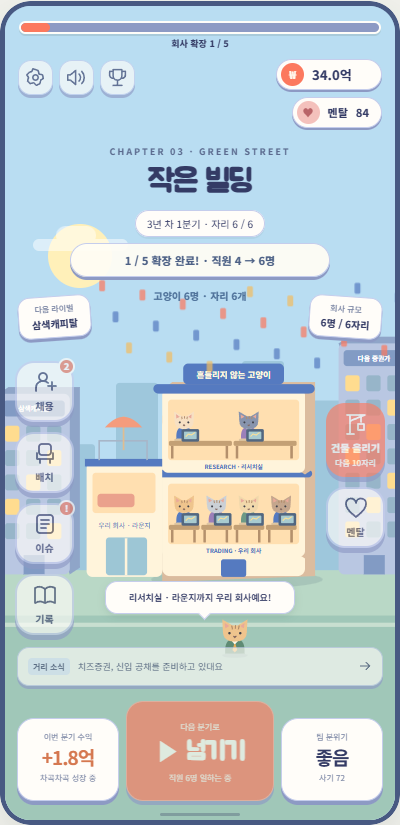
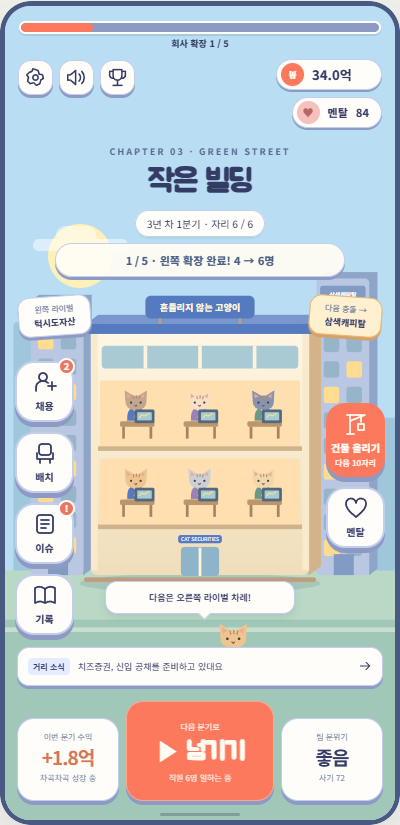
디자인: 좌우 교대 충돌과 일체형 사옥 성장으로 연출 개선

diff --git a/docs/mockups/2026-11-08-toy-city-five-expansions/index.html b/docs/mockups/2026-11-08-toy-city-five-expansions/index.html
@@ -51,73 +51,82 @@
 .phone .phase-label{opacity:1}.phone .seat-popup{opacity:1}.phone .impact{display:none}.phone.cinematic .impact{display:block;animation:hit-label .8s both}
 .rival-label{top:290px!important;left:13px!important;right:auto!important;font-size:10px}.rival-label.right{left:auto!important;right:13px!important;top:290px!important}
 .demo-controls{flex-wrap:wrap}.demo-controls button:disabled{opacity:.45}.demo-controls .autoplay{background:#557ac0;color:white;border-color:#557ac0}.description{text-align:center}.speech{left:100px;right:100px;font-size:9px}.journey{font-size:12px;text-align:center;color:var(--muted-foreground,#718071);line-height:1.8}.footer{max-width:700px;text-align:center}
-</style></head><body>
+
+/* Each plot is absorbed into a single, continuous building envelope. */
+.station{transition:transform .85s cubic-bezier(.2,.8,.3,1),opacity .25s}
+.employee{opacity:0;transform:translate(25px,25px)}.employee.arrived{opacity:1;transform:none}
+.opponent.evicted{opacity:0;transform:translateX(var(--push)) rotate(10deg)}
+.company-hit{animation:alternating-impact .65s both}
+@keyframes alternating-impact{0%{transform:none}25%{transform:translateX(calc(var(--hit) * -.4))}48%{transform:translateX(var(--hit))}70%{transform:translateX(calc(var(--hit) * -.15))}100%{transform:none}}
+.puff{animation:dust-puff 1s both}@keyframes dust-puff{0%{opacity:0}20%,60%{opacity:1}100%{opacity:0}}
+.claimed-lot{transition:opacity .5s}.rival-label.target{background:#fff0d0;border-color:#eab773;box-shadow:0 3px 0 #d3a36b}
+.phase-label{left:50px;right:50px}.rival-label{max-width:105px;font-size:9px}.phone[data-direction=right] .impact{left:220px;right:20px}.phone[data-direction=left] .impact{left:20px;right:220px}
+.phone .seat-popup{display:none}</style></head><body>
 <svg width="0" height="0" style="position:absolute" aria-hidden="true"><defs>
 <symbol id="hire" viewBox="0 0 24 24"><circle cx="10" cy="7" r="4"/><path d="M3 21v-3a7 7 0 0 1 12-5m4-1v8m-4-4h8"/></symbol><symbol id="chair" viewBox="0 0 24 24"><rect x="6" y="3" width="12" height="11" rx="3"/><path d="M4 12v6h16v-6M7 18v4m10-4v4"/></symbol><symbol id="news" viewBox="0 0 24 24"><rect x="4" y="3" width="16" height="18" rx="3"/><path d="M8 8h8m-8 4h8m-8 4h5"/></symbol><symbol id="book" viewBox="0 0 24 24"><path d="M12 6Q7 2 2 5v15q5-3 10 0 5-3 10 0V5q-5-3-10 1v14"/></symbol><symbol id="build" viewBox="0 0 24 24"><path d="M6 22V3m-3 0h18L6 9m11-6v7m-3 2h6v6h-6zM3 22h7"/></symbol><symbol id="heart" viewBox="0 0 24 24"><path d="M12 21S2 14 2 8a5 5 0 0 1 10-1 5 5 0 0 1 10 1c0 6-10 13-10 13Z"/></symbol><symbol id="gear" viewBox="0 0 24 24"><path d="m9 2-1 3-3 1-3 3 2 3-1 4 3 3 4-1 3 3 4-2 1-4 3-2-1-4-4-1-1-4Z"/><circle cx="12" cy="12" r="3"/></symbol><symbol id="sound" viewBox="0 0 24 24"><path d="m11 4-6 5H2v6h3l6 5Zm4 4a6 6 0 0 1 0 8m3-11a10 10 0 0 1 0 14"/></symbol><symbol id="cup" viewBox="0 0 24 24"><path d="M7 3h10v7a5 5 0 0 1-10 0Zm0 2H3v4q0 4 5 4m9-8h4v4q0 4-5 4m-4 2v6m-5 0h10"/></symbol><symbol id="arrow" viewBox="0 0 24 24"><path d="M4 12h16m-6-6 6 6-6 6"/></symbol>
 <symbol id="cat" viewBox="0 0 60 70"><ellipse cx="30" cy="65" rx="21" ry="4" fill="#24334b25"/><path d="M14 62q-2-25 16-25t16 25" fill="var(--coat,#5f8b74)"/><path d="m23 39 7 8 7-8" fill="#fff9e9"/><path d="m29 46-3 10 4 4 4-4-3-10" fill="#e9af5b"/><path d="M10 24 9 5l17 10h9L51 5l-1 21q0 16-20 16T10 24" fill="var(--fur,#efc48d)"/><path d="m13 11 8 5-7 4m32-9-7 5 6 4" fill="#eaa99a"/><path d="m25 16 1 5m5-6v5m6-4-1 5" stroke="#b18b69" stroke-width="2" stroke-linecap="round"/><circle cx="21" cy="28" r="2" fill="#40424b"/><circle cx="39" cy="28" r="2" fill="#40424b"/><path d="m28 33 2 2 2-2" fill="none" stroke="#80645c" stroke-width="2" stroke-linecap="round"/></symbol>
 </defs></svg>
-<header><div class="eyebrow">TOY CITY · EXPANSION STUDY 03</div><h1>다섯 번의 확장, 하나의 고양이 회사.</h1><p><b>5회 자동 재생</b>으로 작은 사무실이 22명의 회사가 되는 과정을 보세요.<br>하나씩 확장하거나, 중간에 멈췄다가 이어서 볼 수도 있어요.</p><div class="selector" role="group" aria-label="시안 선택"><button data-view="all" aria-pressed="true">나란히 비교</button><button data-view="sunny" aria-pressed="false">01 햇살 타이쿤</button><button data-view="night" aria-pressed="false">02 네온 증권가</button><button data-view="toy" aria-pressed="false">03 토이 시티</button></div></header>
+<header><div class="eyebrow">TOY CITY · EXPANSION STUDY 03</div><h1>왼쪽, 오른쪽. 우리 사옥이 자랍니다.</h1><p><b>5회 자동 재생</b>으로 작은 사무실이 22명의 회사가 되는 과정을 보세요.<br>하나씩 확장하거나, 중간에 멈췄다가 이어서 볼 수도 있어요.</p><div class="selector" role="group" aria-label="시안 선택"><button data-view="all" aria-pressed="true">나란히 비교</button><button data-view="sunny" aria-pressed="false">01 햇살 타이쿤</button><button data-view="night" aria-pressed="false">02 네온 증권가</button><button data-view="toy" aria-pressed="false">03 토이 시티</button></div></header>
 <main class="gallery" id="gallery"></main><p class="footer">인터랙티브 시안 · 수치와 이벤트는 디자인 체험용입니다. 실제 게임에는 아직 적용하지 않았습니다.</p>
 <script>
 const c={id:'toy',title:'토이 시티'};
 const icon=name=>`<svg class="icon" aria-hidden="true"><use href="#${name}"/></svg>`;
 const stages=[
  {name:'상가 3층',staff:4,price:21.3,scale:1,cx:195,add:'작은 사무실',rival:'치즈증권'},
- {name:'작은 빌딩',staff:6,price:34,scale:.84,cx:150,add:'리서치실 · 라운지',rival:'삼색캐피탈'},
- {name:'투자 전문 사옥',staff:10,price:210,scale:.72,cx:150,add:'본관 투자팀',rival:'턱시도자산'},
- {name:'두 동의 캠퍼스',staff:14,price:500,scale:.60,cx:230,add:'동쪽 별관',rival:'페르시안금융'},
- {name:'그린 스트리트 본사',staff:18,price:1200,scale:.56,cx:230,add:'동관 전략팀',rival:'골든캣홀딩스'},
- {name:'고양이 금융 캠퍼스',staff:22,price:3000,scale:.50,cx:195,add:'서쪽 별관',rival:'거리 정복 완료'}
+ {name:'작은 빌딩',staff:6,price:34,scale:.84,cx:150,add:'서쪽 부지 · 2층 사옥',rival:'삼색캐피탈'},
+ {name:'투자 전문 사옥',staff:10,price:210,scale:.72,cx:150,add:'동쪽 부지 · 투자팀',rival:'턱시도자산'},
+ {name:'중형 증권 사옥',staff:14,price:500,scale:.60,cx:230,add:'서쪽 부지 · 3층 사옥',rival:'페르시안금융'},
+ {name:'그린 스트리트 본사',staff:18,price:1200,scale:.56,cx:230,add:'동쪽 부지 · 전략팀',rival:'골든캣홀딩스'},
+ {name:'고양이 금융 본사',staff:22,price:3000,scale:.50,cx:195,add:'서쪽 부지 · 4층 본사',rival:'거리 정복 완료'}
 ];
 const names=['모카','구름','치즈','호두','라떼','후추','두부','밤이','나비','콩이','루나','보리','쿠키','토리','레오','솜이','밀크','버터','망고','오레오','로이','별이'];
 const colors=['#efc48d','#cbd0d6','#f1d8ab','#c4a68d','#f7e0c3','#8894ad'];
-function workspace(x,y,w,count,start,level,label){
- const step=(w-16)/count;
- return `<g class="module ${level===0?'built':''}" data-level="${level}">
- <path d="M${x} ${y}l12-9h${w}v102l-12 8" fill="#dbbc9f"/>
- <rect x="${x}" y="${y}" width="${w}" height="99" rx="7" fill="#fff4db"/>
- <rect x="${x+7}" y="${y+12}" width="${w-14}" height="72" rx="4" fill="#ffdfb0"/>
- <path d="M${x-4} ${y}h${w+8}" stroke="#557ac0" stroke-width="9" stroke-linecap="round"/>
- ${Array.from({length:count},(_,i)=>{const px=x+8+i*step;return `<g class="employee ${level===0?'arrived':''}" data-person="${start+i}"><use href="#cat" x="${px+1}" y="${y+23}" width="34" height="40" style="--fur:${colors[(start+i)%colors.length]};--coat:${['#557ac0','#9b80b9','#6c9986'][i%3]}"/></g><g class="workdesk ${level===0?'placed':''}"><rect x="${px}" y="${y+61}" width="${step-2}" height="6" rx="2" fill="#c3a075"/><path d="M${px+4} ${y+67}v15m${step-12}-15v15" stroke="#b4906c" stroke-width="3"/><rect x="${px+15}" y="${y+47}" width="21" height="15" rx="2" fill="#526780"/><rect x="${px+18}" y="${y+50}" width="15" height="9" rx="1" fill="#a8cbd0"/><path d="m${px+20} ${y+56} 3-3 4 1 4-3" stroke="#f9df98" stroke-width="1.3" fill="none"/></g>`}).join('')}
- <text x="${x+w/2}" y="${y+94}" text-anchor="middle" font-size="7" fill="#557ac0" font-weight="800">${label}</text></g>`;
+const geometry=[
+ {x:105,w:170,rows:1,scale:1},
+ {x:35,w:240,rows:2,scale:.91},
+ {x:35,w:310,rows:2,scale:.80},
+ {x:-35,w:380,rows:3,scale:.68},
+ {x:-35,w:450,rows:3,scale:.59},
+ {x:-105,w:520,rows:4,scale:.51}
+].map(g=>({...g,h:g.rows*86+104}));
+const rivals=['치즈증권','삼색캐피탈','턱시도자산','페르시안금융','골든캣홀딩스','노르웨이펀드','러시안블루증권'];
+const direction=n=>n%2===1?'left':'right';
+const sideName=s=>s==='left'?'왼쪽':'오른쪽';
+function slots(n){const g=geometry[n],count=stages[n].staff,result=[],perRow=Math.ceil(count/g.rows);for(let i=0;i<count;i++){const row=Math.floor(i/perRow),column=i%perRow,total=Math.min(perRow,count-row*perRow);result.push({x:g.x+15+(g.w-30)/total*(column+.5)-18,y:560-64-row*86-56});}return result;}
+function station(i){return `<g class="station" data-person="${i}" style="opacity:0"><g class="employee"><use href="#cat" width="35" height="41" style="--fur:${colors[i%colors.length]};--coat:${['#557ac0','#9b80b9','#6c9986'][i%3]}"/></g><g class="workdesk"><rect x="0" y="37" width="38" height="6" rx="2" fill="#ba956d"/><path d="M4 43v13m30-13v13" stroke="#a58364" stroke-width="3"/><rect x="16" y="24" width="22" height="15" rx="2" fill="#526780"/><rect x="19" y="27" width="16" height="9" rx="1" fill="#a8cbd0"/><path d="m21 33 3-3 4 1 4-3" stroke="#f9df98" fill="none" stroke-width="1.3"/></g></g>`;}
+function opponent(name,x,height,side){const width=58;return `<g class="opponent" data-side="${side}" style="--push:${side==='left'?-150:150}px;transform-origin:${x+29}px 560px"><path d="M${x} ${560-height}l9-7h${width}v${height}l-9 7" fill="#8fa5c8"/><rect x="${x}" y="${560-height}" width="${width}" height="${height}" rx="5" fill="#b9c7e2"/><rect x="${x+4}" y="${568-height}" width="50" height="18" rx="3" fill="#829bc4"/><text x="${x+29}" y="${580-height}" text-anchor="middle" font-size="6.5" fill="#fff" font-weight="700">${name}</text>${Array.from({length:Math.floor((height-44)/28)},(_,r)=>[0,1].map(c=>`<rect x="${x+8+c*25}" y="${595-height+r*28}" width="17" height="18" rx="3" fill="${(r+c)%3?'#97b5c9':'#ffdc8f'}"/>`).join('')).join('')}<rect x="${x+19}" y="537" width="22" height="23" fill="#829bc4"/></g>`;}
+function renderScene(){return `<svg class="scene" viewBox="0 0 390 814" role="img" aria-label="좌우 라이벌 부지를 번갈아 차지하며 하나의 사옥으로 성장하는 회사"><defs><linearGradient id="wall" x2="0" y2="1"><stop stop-color="#fff7e5"/><stop offset="1" stop-color="#f0ddba"/></linearGradient></defs><rect width="390" height="814" fill="#b9ddf2"/><circle cx="75" cy="250" r="32" fill="#fff0b9"/><g fill="#fff" opacity=".5"><rect x="28" y="233" width="95" height="12" rx="6"/><rect x="51" y="220" width="40" height="19" rx="10"/></g><g class="camera"><g fill="#9ec7dc">${Array.from({length:17},(_,i)=>`<rect x="${-500+i*75}" y="${260+(i*47)%130}" width="50" height="330" rx="4"/>`).join('')}</g><path d="M-700 555h1800v500H-700" fill="#b9d8c6"/><path d="M-700 609h1800v446H-700" fill="#a0c7b8"/><path d="M-700 620h1800" stroke="#c8dfd0" stroke-width="5"/><g class="opponents"></g><rect class="claimed-lot" y="550" height="22" rx="5" fill="#f8d98b" opacity="0"/><g class="company"><g class="envelope"></g><g class="stations">${Array.from({length:22},(_,i)=>station(i)).join('')}</g><g class="roof"></g></g><g class="dust" opacity="0"><ellipse cx="0" cy="556" rx="27" ry="12" fill="#ffedc9"/><ellipse cx="-20" cy="552" rx="18" ry="13" fill="#f4ddb5"/><ellipse cx="20" cy="548" rx="19" ry="16" fill="#fff1d5"/></g><use href="#cat" x="169" y="610" width="45" height="50"/><g class="confetti">${Array.from({length:25},(_,i)=>`<rect x="${30+i*16}" y="${230+(i*37)%100}" width="7" height="13" rx="2" fill="${['#fc795e','#557ac0','#f2bc61'][i%3]}"/>`).join('')}</g></g></svg>`;}
+let frame=0;
+function drawEnvelope(g){const {x,w,h}=g,top=560-h,cx=x+w/2;let floors='';const visibleRows=Math.max(1,Math.floor((h-104)/86+.02));for(let row=0;row<visibleRows;row++){const y=560-64-row*86-64;floors+=`<rect x="${x+10}" y="${y}" width="${w-20}" height="73" rx="3" fill="#ffdfb0"/><path d="M${x+8} ${y+75}h${w-16}" stroke="#cdb28b" stroke-width="5"/>`;}
+ q('.envelope').innerHTML=`<ellipse cx="${cx}" cy="569" rx="${w/2+12}" ry="11" fill="#34486122"/><path d="M${x} ${top}l13-10h${w}v${h}l-13 10" fill="#d4b38a"/><rect x="${x}" y="${top}" width="${w}" height="${h}" rx="7" fill="url(#wall)"/><rect x="${x+12}" y="${top+24}" width="${w-24}" height="25" rx="4" fill="#a9c9d3"/>${[1,2,3].map(i=>`<path d="M${x+w*i/4} ${top+24}v25" stroke="#fff4db" stroke-width="4"/>`).join('')}${floors}<path d="M${x+4} ${top+10}v${h-15}m${w-8}-${h-15}v${h-15}" stroke="#f9eacc" stroke-width="7"/><rect x="${cx-21}" y="529" width="42" height="32" rx="4" fill="#8eb4ca"/><path d="M${cx} 530v31" stroke="#fff4db" stroke-width="3"/><rect x="${cx-24}" y="516" width="48" height="9" rx="3" fill="#557ac0"/><text x="${cx}" y="523" font-size="5.5" text-anchor="middle" fill="#fff">CAT SECURITIES</text><path d="M${x-5} 565h${w+10}" stroke="#bd9f7d" stroke-width="5" stroke-linecap="round"/>`;
+ q('.roof').innerHTML=`<path d="M${x-5} ${top}l13-10h${w+7}l-13 10" fill="#7797ce"/><rect x="${x-5}" y="${top}" width="${w+11}" height="11" rx="3" fill="#557ac0"/><rect x="${cx-60}" y="${top-31}" width="120" height="25" rx="6" fill="#557ac0"/><text x="${cx}" y="${top-14}" text-anchor="middle" font-size="10" font-weight="800" fill="#fff9df">흔들리지 않는 고양이</text><path d="M${cx-44} ${top-6}v6m88-6v6" stroke="#bd9f7d" stroke-width="3"/>`;
 }
-function opponent(name,x=-80,height=190){return `<g class="opponent"><path d="M${x} ${560-height}l12-8h85v${height}l-12 8" fill="#8fa5c8"/><rect x="${x}" y="${560-height}" width="85" height="${height}" rx="7" fill="#b9c7e2"/><rect x="${x+6}" y="${568-height}" width="73" height="19" rx="4" fill="#829bc4"/><text x="${x+42}" y="${581-height}" text-anchor="middle" font-size="8" fill="#fff" font-weight="700">${name}</text>${Array.from({length:Math.floor((height-45)/29)},(_,r)=>[0,1,2].map(c=>`<rect x="${x+8+c*25}" y="${598-height+r*29}" width="17" height="19" rx="3" fill="${(r+c)%3?'#97b5c9':'#ffdc8f'}"/>`).join('')).join('')}<rect x="${x+30}" y="537" width="25" height="23" fill="#829bc4"/></g>`}
-function renderScene(){return `<svg class="scene" viewBox="0 0 390 814" role="img" aria-label="다섯 차례에 걸쳐 성장하는 고양이 회사"><rect width="390" height="814" fill="#b9ddf2"/><circle cx="75" cy="250" r="32" fill="#fff0b9"/><g fill="#fff" opacity=".5"><rect x="28" y="233" width="95" height="12" rx="6"/><rect x="51" y="220" width="40" height="19" rx="10"/></g><g class="camera"><g fill="#9ec7dc">${Array.from({length:15},(_,i)=>`<rect x="${-400+i*75}" y="${290+(i*47)%120}" width="50" height="280" rx="4"/>`).join('')}</g><path d="M-700 555h1800v500H-700" fill="#b9d8c6"/><path d="M-700 609h1800v446H-700" fill="#a0c7b8"/><path d="M-700 620h1800" stroke="#c8dfd0" stroke-width="5"/><g class="opponents">${opponent('치즈증권',-7)}${opponent('삼색캐피탈',310,260)}</g><g class="company">
- <ellipse cx="194" cy="566" rx="102" ry="11" fill="#34486122"/>
- <g class="base"><path d="m105 371 170-9 12 10v190l-182 7" fill="#dbbc9f"/><rect x="105" y="374" width="170" height="188" rx="9" fill="#fff4db"/><rect x="114" y="390" width="152" height="46" rx="5" fill="#9dc6d5"/><path d="M164 390v46m50-46v46" stroke="#fff4db" stroke-width="5"/><rect x="175" y="542" width="30" height="21" rx="3" fill="#557ac0"/></g>
- ${workspace(105,440,170,4,0,0,'TRADING · 우리 회사')}
- <g class="module" data-level="1"><rect x="15" y="427" width="90" height="136" rx="7" fill="#fff4db"/><rect x="22" y="439" width="75" height="48" rx="4" fill="#ffdfb0"/><rect x="28" y="464" width="44" height="16" rx="4" fill="#eaa18c"/><rect x="38" y="516" width="49" height="45" rx="4" fill="#9dc6d5"/><path d="M62 517v44" stroke="#fff4db" stroke-width="3"/><path d="M13 427h94" stroke="#557ac0" stroke-width="9"/><text x="60" y="505" text-anchor="middle" font-size="8" fill="#557ac0">우리 회사 · 라운지</text><path d="M30 424v-23h57v23" stroke="#a7b6c8" stroke-width="2" fill="none"/><path d="M59 412v-40" stroke="#dfbd91" stroke-width="2"/><path d="M37 385q22-25 44 0Z" fill="#f49c7d"/></g>
- ${workspace(105,340,170,2,4,1,'RESEARCH · 리서치실')}
- ${workspace(105,240,170,4,6,2,'INVESTMENT · 투자팀')}
- <g class="module" data-level="3"><rect x="276" y="530" width="169" height="33" fill="#fff4db"/><rect x="325" y="540" width="40" height="23" fill="#9dc6d5"/><path d="M274 564h175" stroke="#dbbc9f" stroke-width="4"/></g>
- ${workspace(275,430,170,4,10,3,'EAST WING · 동쪽 별관')}
- ${workspace(275,330,170,4,14,4,'STRATEGY · 전략팀')}
- <g class="module" data-level="5"><rect x="-65" y="440" width="80" height="123" rx="5" fill="#fff4db"/><rect x="-55" y="460" width="58" height="44" rx="4" fill="#9dc6d5"/><rect x="-39" y="529" width="28" height="34" fill="#557ac0"/></g>
- ${workspace(-65,340,170,4,18,5,'WEST WING · 글로벌팀')}
- <g class="roof" style="transition:transform .7s"><path d="M100 373h181" stroke="#557ac0" stroke-width="11" stroke-linecap="round"/><rect x="130" y="343" width="120" height="25" rx="6" fill="#557ac0"/><text x="190" y="360" text-anchor="middle" font-size="10" font-weight="800" fill="#fff9df">흔들리지 않는 고양이</text></g>
- </g><use href="#cat" x="169" y="610" width="45" height="50"/><g class="confetti">${Array.from({length:25},(_,i)=>`<rect x="${30+i*16}" y="${230+(i*37)%100}" width="7" height="13" rx="2" fill="${['#fc795e','#557ac0','#f2bc61'][i%3]}"/>`).join('')}</g></g></svg>`}
+function morph(a,b){cancelAnimationFrame(frame);if(reduced()){drawEnvelope(b);return;}const token=epoch,start=performance.now();function tick(now){if(token!==epoch)return;const t=Math.min(1,(now-start)/850),ease=1-Math.pow(1-t,3);drawEnvelope({x:a.x+(b.x-a.x)*ease,w:a.w+(b.w-a.w)*ease,h:a.h+(b.h-a.h)*ease});if(t<1)frame=requestAnimationFrame(tick);}frame=requestAnimationFrame(tick);}
+function placeStaff(n,before){slots(n).forEach((p,i)=>{const node=q(`.station[data-person="${i}"]`);node.style.transform=`translate(${p.x}px,${p.y}px)`;if(i<before){node.style.opacity='1';node.querySelector('.employee').classList.add('arrived');node.querySelector('.workdesk').classList.add('placed');}});}
+function view(n,pan=0){const g=geometry[n];q('.camera').style.transform=`translate(${195-(g.x+g.w/2)*g.scale+pan}px,${560-550*g.scale}px) scale(${g.scale})`;}
+function opponentIndex(n,side){return side==='left'?2*Math.ceil(n/2):1+2*Math.floor(n/2);}
+function opponents(n){const g=geometry[n];q('.opponents').innerHTML=opponent(rivals[opponentIndex(n,'left')]||'다음 증권가',g.x-66,Math.min(350,g.h+25),'left')+opponent(rivals[opponentIndex(n,'right')]||'다음 증권가',g.x+g.w+8,Math.min(380,g.h+50),'right');}
+function reset(){epoch++;autoRun++;timers.forEach(clearTimeout);timers=[];cancelAnimationFrame(frame);level=0;staff=4;seats=4;money=21.3;quarter=0;busy=false;auto=false;q('.phone').classList.remove('cinematic','celebrating');q('.company').classList.remove('company-hit');q('.dust').classList.remove('puff');q('.claimed-lot').setAttribute('opacity','0');all('.station').forEach(node=>{node.style.opacity='0';node.querySelector('.employee').classList.remove('arrived');node.querySelector('.workdesk').classList.remove('placed');});drawEnvelope(geometry[0]);placeStaff(0,4);opponents(0);q('.phase-label').textContent='왼쪽부터 · 좌우로 번갈아 확장해요';q('.speech').textContent='하나의 사옥으로 차곡차곡 성장';close();view(0);update();}
+function expand(){if(busy||level===5)return;busy=true;const next=level+1,s=stages[next],before=staff,side=direction(next),sign=side==='left'?-1:1,old=geometry[level],target=geometry[next];q('.phone').dataset.direction=side;q('.phone').classList.remove('celebrating');q('.company').classList.remove('company-hit');void q('.phone').offsetWidth;q('.phone').classList.add('cinematic');q('.company').style.setProperty('--hit',sign*22+'px');q('.company').classList.add('company-hit');q('.phase-label').textContent=`${next} / 5 · ${sideName(side)} ${stages[level].rival} 밀어내기!`;view(level,-sign*12);update();
+ later(260,()=>{q(`.opponent[data-side="${side}"]`).classList.add('evicted');const dust=q('.dust');dust.setAttribute('transform',`translate(${side==='left'?old.x:old.x+old.w},0)`);dust.classList.add('puff');});
+ later(420,()=>{view(next);q('.phase-label').textContent=`${sideName(side)} 부지 확보 · 건물의 기초를 넓혀요`;const lot=q('.claimed-lot');lot.setAttribute('x',side==='left'?target.x:old.x+old.w);lot.setAttribute('width','70');lot.setAttribute('opacity','1');});
+ later(950,()=>{morph(old,target);placeStaff(next,before);q('.phase-label').textContent='외벽과 층을 연결하고, 지붕을 다시 얹어요';});
+ later(1850,()=>{seats=s.staff;for(let i=before;i<s.staff;i++){const node=q(`.station[data-person="${i}"]`);node.style.opacity='1';node.querySelector('.workdesk').classList.add('placed');}q('.phase-label').textContent=`새 책상 +${s.staff-before} · 고양이들을 맞이해요`;update();});
+ for(let person=before;person<s.staff;person++)later(2300+(person-before)*230,()=>{q(`.station[data-person="${person}"] .employee`).classList.add('arrived');staff=person+1;update();q('.phase-label').textContent=`${names[person]} 합류 · ${staff} / ${seats}명`;});
+ later(3900,()=>{level=next;busy=false;money=s.price;staff=seats=s.staff;q('.phone').classList.remove('cinematic');q('.company').classList.remove('company-hit');q('.dust').classList.remove('puff');q('.claimed-lot').setAttribute('opacity','0');q('.phone').classList.add('celebrating');opponents(next);update();q('.phase-label').textContent=`${next} / 5 · ${sideName(side)} 확장 완료! ${before} → ${staff}명`;q('.speech').textContent=next===5?'고양이 22명의 하나 된 사옥!':`다음은 ${sideName(direction(next+1))} 라이벌 차례!`;if(auto&&level<5){const run=autoRun;later(1100,()=>{if(auto&&run===autoRun)expand()});}else{auto=false;update();}});
+}
+
 const article=document.createElement('article');article.className='variant selected';
-article.innerHTML=`<div class="variant-head"><span>토이 시티 · 5단계 확장</span><small>FIVE CHAPTERS</small></div><div class="viewport"><section class="phone ${c.id}" aria-label="${c.title} 게임 시안">${renderScene()}<div class="top-progress"><i></i></div><div class="progress-text">다음 건물까지 63%</div><div class="top-tools"><button class="circle" data-action="settings" aria-label="설정">${icon('gear')}</button><button class="circle" data-action="sound" aria-label="사운드 시안 표시" aria-pressed="false">${icon('sound')}</button><button class="circle" data-action="rank" aria-label="순위">${icon('cup')}</button></div><div class="wallets"><div class="wallet"><i>₩</i><span class="money">21.3억</span></div><div class="wallet heart"><i>♥</i>멘탈 <span class="mental-value">84</span></div></div><div class="stage"><div class="chapter">CHAPTER 03 · GREEN STREET</div><h2>상가 3층</h2><small class="date">3년 차 2분기 · 자리 4 / 4</small></div><div class="rival-label"><small>다음 라이벌</small>34억</div><div class="rival-label right"><small>삼색캐피탈</small>210억</div><div class="side left"><button class="side-button" data-action="hire">${icon('hire')}채용<span class="badge">2</span></button><button class="side-button" data-action="chairs">${icon('chair')}배치</button><button class="side-button" data-action="news">${icon('news')}이슈<span class="badge">!</span></button><button class="side-button" data-action="records">${icon('book')}기록</button></div><div class="side right"><button class="side-button strong" data-action="growth">${icon('build')}건물 올리기<span class="mini">목표 34억</span></button><button class="side-button" data-action="mental">${icon('heart')}멘탈</button></div><div class="speech">작은 회사의, 아주 큰 야망</div><div class="impact">쾅!</div><div class="phase-label" role="status" aria-live="polite"></div><div class="seat-popup"></div><div class="bottom"><button class="ticker" data-action="news"><b>거리 소식</b>치즈증권, 신입 공채를 준비하고 있대요${icon('arrow')}</button><div class="bottom-cards"><div class="stat"><small>이번 분기 수익</small><strong class="gain">+1.8억</strong><em>차곡차곡 성장 중</em></div><button class="stat advance" data-action="next"><small>다음 분기로</small><strong>▶ 넘기기</strong><em>직원 4명 일하는 중</em></button><div class="stat"><small>팀 분위기</small><strong>좋음</strong><em>사기 72</em></div></div></div><div class="gesture"></div><div class="notice" role="status" hidden></div><div class="overlay" hidden><section class="dialog" role="dialog" aria-modal="true" aria-labelledby="title-${c.id}"><h3 id="title-${c.id}"></h3><div class="body"></div><button class="dismiss">닫기</button></section></div></section></div><p class="description">본관 증축 → 투자팀 → 동쪽 별관 → 전략팀 → 서쪽 별관. 새 공간마다 책상과 고양이가 추가됩니다.</p><div class="steps" aria-label="확장 진행">${[1,2,3,4,5].map(n=>`<span data-step="${n}">${n}</span>`).join('')}</div><div class="demo-controls"><button data-action="demo">한 번 확장</button><button data-action="auto" class="autoplay">5회 자동 재생</button><button data-action="stop" disabled>자동 재생 중지</button><button data-action="reset">처음으로</button></div>`;
+article.innerHTML=`<div class="variant-head"><span>토이 시티 · 5단계 확장</span><small>FIVE CHAPTERS</small></div><div class="viewport"><section class="phone ${c.id}" aria-label="${c.title} 게임 시안">${renderScene()}<div class="top-progress"><i></i></div><div class="progress-text">다음 건물까지 63%</div><div class="top-tools"><button class="circle" data-action="settings" aria-label="설정">${icon('gear')}</button><button class="circle" data-action="sound" aria-label="사운드 시안 표시" aria-pressed="false">${icon('sound')}</button><button class="circle" data-action="rank" aria-label="순위">${icon('cup')}</button></div><div class="wallets"><div class="wallet"><i>₩</i><span class="money">21.3억</span></div><div class="wallet heart"><i>♥</i>멘탈 <span class="mental-value">84</span></div></div><div class="stage"><div class="chapter">CHAPTER 03 · GREEN STREET</div><h2>상가 3층</h2><small class="date">3년 차 2분기 · 자리 4 / 4</small></div><div class="rival-label"><small>다음 라이벌</small>34억</div><div class="rival-label right"><small>삼색캐피탈</small>210억</div><div class="side left"><button class="side-button" data-action="hire">${icon('hire')}채용<span class="badge">2</span></button><button class="side-button" data-action="chairs">${icon('chair')}배치</button><button class="side-button" data-action="news">${icon('news')}이슈<span class="badge">!</span></button><button class="side-button" data-action="records">${icon('book')}기록</button></div><div class="side right"><button class="side-button strong" data-action="growth">${icon('build')}건물 올리기<span class="mini">목표 34억</span></button><button class="side-button" data-action="mental">${icon('heart')}멘탈</button></div><div class="speech">작은 회사의, 아주 큰 야망</div><div class="impact">쾅!</div><div class="phase-label" role="status" aria-live="polite"></div><div class="seat-popup"></div><div class="bottom"><button class="ticker" data-action="news"><b>거리 소식</b>치즈증권, 신입 공채를 준비하고 있대요${icon('arrow')}</button><div class="bottom-cards"><div class="stat"><small>이번 분기 수익</small><strong class="gain">+1.8억</strong><em>차곡차곡 성장 중</em></div><button class="stat advance" data-action="next"><small>다음 분기로</small><strong>▶ 넘기기</strong><em>직원 4명 일하는 중</em></button><div class="stat"><small>팀 분위기</small><strong>좋음</strong><em>사기 72</em></div></div></div><div class="gesture"></div><div class="notice" role="status" hidden></div><div class="overlay" hidden><section class="dialog" role="dialog" aria-modal="true" aria-labelledby="title-${c.id}"><h3 id="title-${c.id}"></h3><div class="body"></div><button class="dismiss">닫기</button></section></div></section></div><p class="description">왼쪽 → 오른쪽 → 왼쪽 → 오른쪽 → 왼쪽. 차지한 부지 위로 하나의 외벽과 지붕이 이어지고, 고양이와 책상이 자리를 잡습니다.</p><div class="steps" aria-label="확장 진행">${[1,2,3,4,5].map(n=>`<span data-step="${n}">${n}</span>`).join('')}</div><div class="demo-controls"><button data-action="demo">한 번 확장</button><button data-action="auto" class="autoplay">5회 자동 재생</button><button data-action="stop" disabled>자동 재생 중지</button><button data-action="reset">처음으로</button></div>`;
 document.querySelector('#gallery').append(article);
 const q=s=>article.querySelector(s),all=s=>[...article.querySelectorAll(s)];
 let autoRun=0;let level=0,staff=4,seats=4,busy=false,auto=false,timers=[],epoch=0,money=21.3,quarter=0,mental=84,lastFocus;
 const reduced=()=>matchMedia('(prefers-reduced-motion: reduce)').matches;
 function later(ms,fn){const token=epoch;timers.push(setTimeout(()=>{if(token===epoch)fn()},reduced()?Math.min(ms,30):ms));}
-function view(n){const s=stages[n];q('.camera').style.transform=`translate(${195-s.cx*s.scale}px,${560-550*s.scale}px) scale(${s.scale})`;}
-function update(){const s=stages[level];q('.stage h2').textContent=s.name;q('.date').textContent=`${3+Math.floor(quarter/4)}년 차 ${quarter%4+1}분기 · 자리 ${staff} / ${seats}`;q('.money').textContent=money.toFixed(1)+'억';q('.mental-value').textContent=mental;q('.advance em').textContent=`직원 ${staff}명 일하는 중`;q('.top-progress i').style.width=(level/5*100)+'%';q('.progress-text').textContent=`회사 확장 ${level} / 5`;q('.mini').textContent=level===5?'최종 단계':`다음 ${stages[level+1].staff}자리`;q('.rival-label').innerHTML=`<small>${level===5?'완료':'다음 라이벌'}</small>${s.rival}`;q('.rival-label.right').innerHTML=`<small>회사 규모</small>${staff}명 / ${seats}자리`;q('.seat-popup').textContent=`고양이 ${staff}명 · 자리 ${seats}개`;all('[data-step]').forEach(el=>{const n=Number(el.dataset.step);el.classList.toggle('done',n<=level);el.classList.toggle('current',busy&&n===level+1)});all('[data-action]').forEach(b=>{const a=b.dataset.action;b.disabled=a==='reset'?false:a==='stop'?!auto:(busy||auto||(level===5&&['demo','growth'].includes(a)));});q('[data-action=auto]').disabled=busy||auto;q('[data-action=auto]').textContent=level===5?'처음부터 5회 재생':level?'남은 확장 자동 재생':'5회 자동 재생';}
-function opponents(n){q('.opponents').innerHTML=n===5?'':opponent(stages[n].rival,n>=3?-170:-90,200+n*15)+opponent('다음 증권가',n>=3?480:315,260+n*15);}
+function update(){const s=stages[level];q('.stage h2').textContent=s.name;q('.date').textContent=`${3+Math.floor(quarter/4)}년 차 ${quarter%4+1}분기 · 자리 ${staff} / ${seats}`;q('.money').textContent=money.toFixed(1)+'억';q('.mental-value').textContent=mental;q('.advance em').textContent=`직원 ${staff}명 일하는 중`;q('.top-progress i').style.width=(level/5*100)+'%';q('.progress-text').textContent=`회사 확장 ${level} / 5`;q('.mini').textContent=level===5?'최종 단계':`다음 ${stages[level+1].staff}자리`;['left','right'].forEach(side=>{const label=q(side==='left'?'.rival-label':'.rival-label.right');const target=level<5&&direction(level+1)===side;label.innerHTML=`<small>${target?'다음 충돌 '+(side==='left'?'←':'→'):sideName(side)+' 라이벌'}</small>${rivals[opponentIndex(level,side)]||'다음 증권가'}`;label.classList.toggle('target',target);});q('.seat-popup').textContent=`고양이 ${staff}명 · 자리 ${seats}개`;all('[data-step]').forEach(el=>{const n=Number(el.dataset.step);el.classList.toggle('done',n<=level);el.classList.toggle('current',busy&&n===level+1)});all('[data-action]').forEach(b=>{const a=b.dataset.action;b.disabled=a==='reset'?false:a==='stop'?!auto:(busy||auto||(level===5&&['demo','growth'].includes(a)));});q('[data-action=auto]').disabled=busy||auto;q('[data-action=auto]').textContent=level===5?'처음부터 5회 재생':level?'남은 확장 자동 재생':'5회 자동 재생';}
 function close(){q('.overlay').hidden=true;lastFocus?.focus()}
 function modal(title,body){lastFocus=document.activeElement;q('.dialog h3').textContent=title;q('.body').innerHTML=body;q('.overlay').hidden=false;q('.dismiss').focus()}
-function reset(){epoch++;timers.forEach(clearTimeout);timers=[];level=0;staff=4;seats=4;money=21.3;quarter=0;busy=false;auto=false;q('.phone').classList.remove('cinematic','celebrating');q('.company').classList.remove('company-hit');all('.module').forEach(el=>el.classList.toggle('built',el.dataset.level==='0'));all('.employee').forEach(el=>el.classList.toggle('arrived',Number(el.dataset.person)<4));all('.workdesk').forEach(el=>el.classList.toggle('placed',el.closest('.module').dataset.level==='0'));q('.roof').style.transform='none';q('.opponents').innerHTML=opponent('치즈증권',-7)+opponent('삼색캐피탈',310,260);q('.phase-label').textContent='준비 완료 · 다섯 번 확장해보세요';q('.speech').textContent='작은 회사의, 아주 큰 야망';close();view(0);update();}
-function expand(){if(busy||level===5)return;busy=true;const next=level+1,s=stages[next],before=staff;q('.phone').classList.remove('celebrating');void q('.phone').offsetWidth;q('.phone').classList.add('cinematic');q('.company').classList.add('company-hit');q('.phase-label').textContent=`${next} / 5 · ${stages[level].rival} 밀어내기!`;update();
- later(230,()=>all('.opponent')[0]?.classList.add('evicted'));
- later(350,()=>{view(next);q('.phase-label').textContent=`${next} / 5 · ${s.add} 공간을 넓혀요`;});
- later(1000,()=>{all(`.module[data-level="${next}"]`).forEach(el=>el.classList.add('built'));q('.roof').style.transform=`translateY(${next===1?-34:-134}px)`;});
- later(1550,()=>{all(`.module[data-level="${next}"] .workdesk`).forEach(el=>el.classList.add('placed'));seats=s.staff;update();q('.phase-label').textContent=`새 책상 +${s.staff-before} · ${s.add}`;});
- for(let person=before;person<s.staff;person++){later(2100+(person-before)*230,()=>{q(`[data-person="${person}"]`).classList.add('arrived');staff=person+1;update();q('.phase-label').textContent=`${names[person]} 합류 · ${staff} / ${seats}명`;});}
- later(3600,()=>{level=next;busy=false;money=s.price;staff=seats=s.staff;q('.phone').classList.remove('cinematic');q('.company').classList.remove('company-hit');q('.phone').classList.add('celebrating');opponents(next);update();q('.phase-label').textContent=`${next} / 5 확장 완료! · 직원 ${before} → ${staff}명`;q('.speech').textContent=next===5?'고양이 22명이 함께하는 금융 캠퍼스!':`${s.add}까지 우리 회사예요!`;if(auto&&level<5){const run=autoRun;later(1100,()=>{if(auto&&run===autoRun)expand()});}else{auto=false;update();}});
-}
-article.addEventListener('click',e=>{const button=e.target.closest('[data-action]');if(!button||button.disabled)return;const a=button.dataset.action;if(a==='reset')reset();if(a==='demo'||a==='growth')expand();if(a==='auto'){if(level===5)reset();autoRun++;auto=true;expand();}if(a==='stop'){autoRun++;auto=false;update();q('.phase-label').textContent=busy?'현재 확장까지만 마무리해요':'자동 재생을 멈췄어요';}if(a==='next'){quarter++;money+=1.8;update();}if(a==='chairs')modal('우리 회사의 고양이들',names.slice(0,staff).map((n,i)=>`<div class="person"><span>자리 ${i+1}</span><b>${n} · 근무 중</b></div>`).join(''));if(a==='hire')modal('채용 현황',`<p>직원 ${staff}명 · 자리 ${seats}개<br>이 시안에서는 확장 연출에 맞춰 새 동료가 합류합니다.</p>`);if(a==='records')modal('회사의 성장 기록',stages.slice(1,level+1).map((s,i)=>`<div class="person"><span>${i+1}차 · ${s.add}</span><b>${s.staff}명</b></div>`).join('')||'<p>첫 번째 확장을 기다리고 있어요.</p>');if(a==='news')modal('거리 소식',`<p>우리 회사는 ${stages[level].name}입니다.<br>${level===5?'다섯 번의 확장을 모두 마쳤어요.':`다음 목표는 ${stages[level+1].add}입니다.`}</p>`);if(a==='mental'){mental=Math.min(100,mental+8);update();modal('잠깐 쉬어가요',`<p>고양이들과 쉬면서 멘탈이 ${mental}이 되었어요.</p>`);}if(a==='rank')modal('거리의 증권사',`<p>우리 회사 · ${staff}명<br>확장 ${level} / 5<br>다음 라이벌 · ${stages[level].rival}</p>`);if(a==='settings'||a==='sound')modal('시안 안내','<p>5회 자동 재생은 약 23초입니다. 자동 재생 중지는 현재 확장을 마친 뒤 멈춥니다.<br>처음으로 버튼은 즉시 초기화합니다. 음원과 실제 게임 데이터는 연결하지 않았습니다.</p>');});
+article.addEventListener('click',e=>{const button=e.target.closest('[data-action]');if(!button||button.disabled)return;const a=button.dataset.action;if(a==='reset')reset();if(a==='demo'||a==='growth')expand();if(a==='auto'){if(level===5)reset();autoRun++;auto=true;expand();}if(a==='stop'){autoRun++;auto=false;update();q('.phase-label').textContent=busy?'현재 확장까지만 마무리해요':'자동 재생을 멈췄어요';}if(a==='next'){quarter++;money+=1.8;update();}if(a==='chairs')modal('우리 회사의 고양이들',names.slice(0,staff).map((n,i)=>`<div class="person"><span>자리 ${i+1}</span><b>${n} · 근무 중</b></div>`).join(''));if(a==='hire')modal('채용 현황',`<p>직원 ${staff}명 · 자리 ${seats}개<br>이 시안에서는 확장 연출에 맞춰 새 동료가 합류합니다.</p>`);if(a==='records')modal('회사의 성장 기록',stages.slice(1,level+1).map((s,i)=>`<div class="person"><span>${i+1}차 · ${s.add}</span><b>${s.staff}명</b></div>`).join('')||'<p>첫 번째 확장을 기다리고 있어요.</p>');if(a==='news')modal('거리 소식',`<p>우리 회사는 ${stages[level].name}입니다.<br>${level===5?'다섯 번의 확장을 모두 마쳤어요.':`다음 목표는 ${stages[level+1].add}입니다.`}</p>`);if(a==='mental'){mental=Math.min(100,mental+8);update();modal('잠깐 쉬어가요',`<p>고양이들과 쉬면서 멘탈이 ${mental}이 되었어요.</p>`);}if(a==='rank')modal('거리의 증권사',`<p>우리 회사 · ${staff}명<br>확장 ${level} / 5<br>다음 라이벌 · ${stages[level].rival}</p>`);if(a==='settings'||a==='sound')modal('시안 안내','<p>5회 자동 재생은 약 25초입니다. 자동 재생 중지는 현재 확장을 마친 뒤 멈춥니다.<br>처음으로 버튼은 즉시 초기화합니다. 음원과 실제 게임 데이터는 연결하지 않았습니다.</p>');});
 q('.dismiss').onclick=close;q('.overlay').onclick=e=>{if(e.target===q('.overlay'))close()};document.addEventListener('keydown',e=>{if(q('.overlay').hidden)return;if(e.key==='Escape')close();if(e.key==='Tab'){e.preventDefault();q('.dismiss').focus();}});
 function fit(){const w=q('.viewport'),scale=w.clientWidth/400;w.style.height=824*scale+'px';q('.phone').style.transform=`scale(${scale})`;}
 new ResizeObserver(fit).observe(q('.viewport'));addEventListener('resize',fit);reset();fit();
